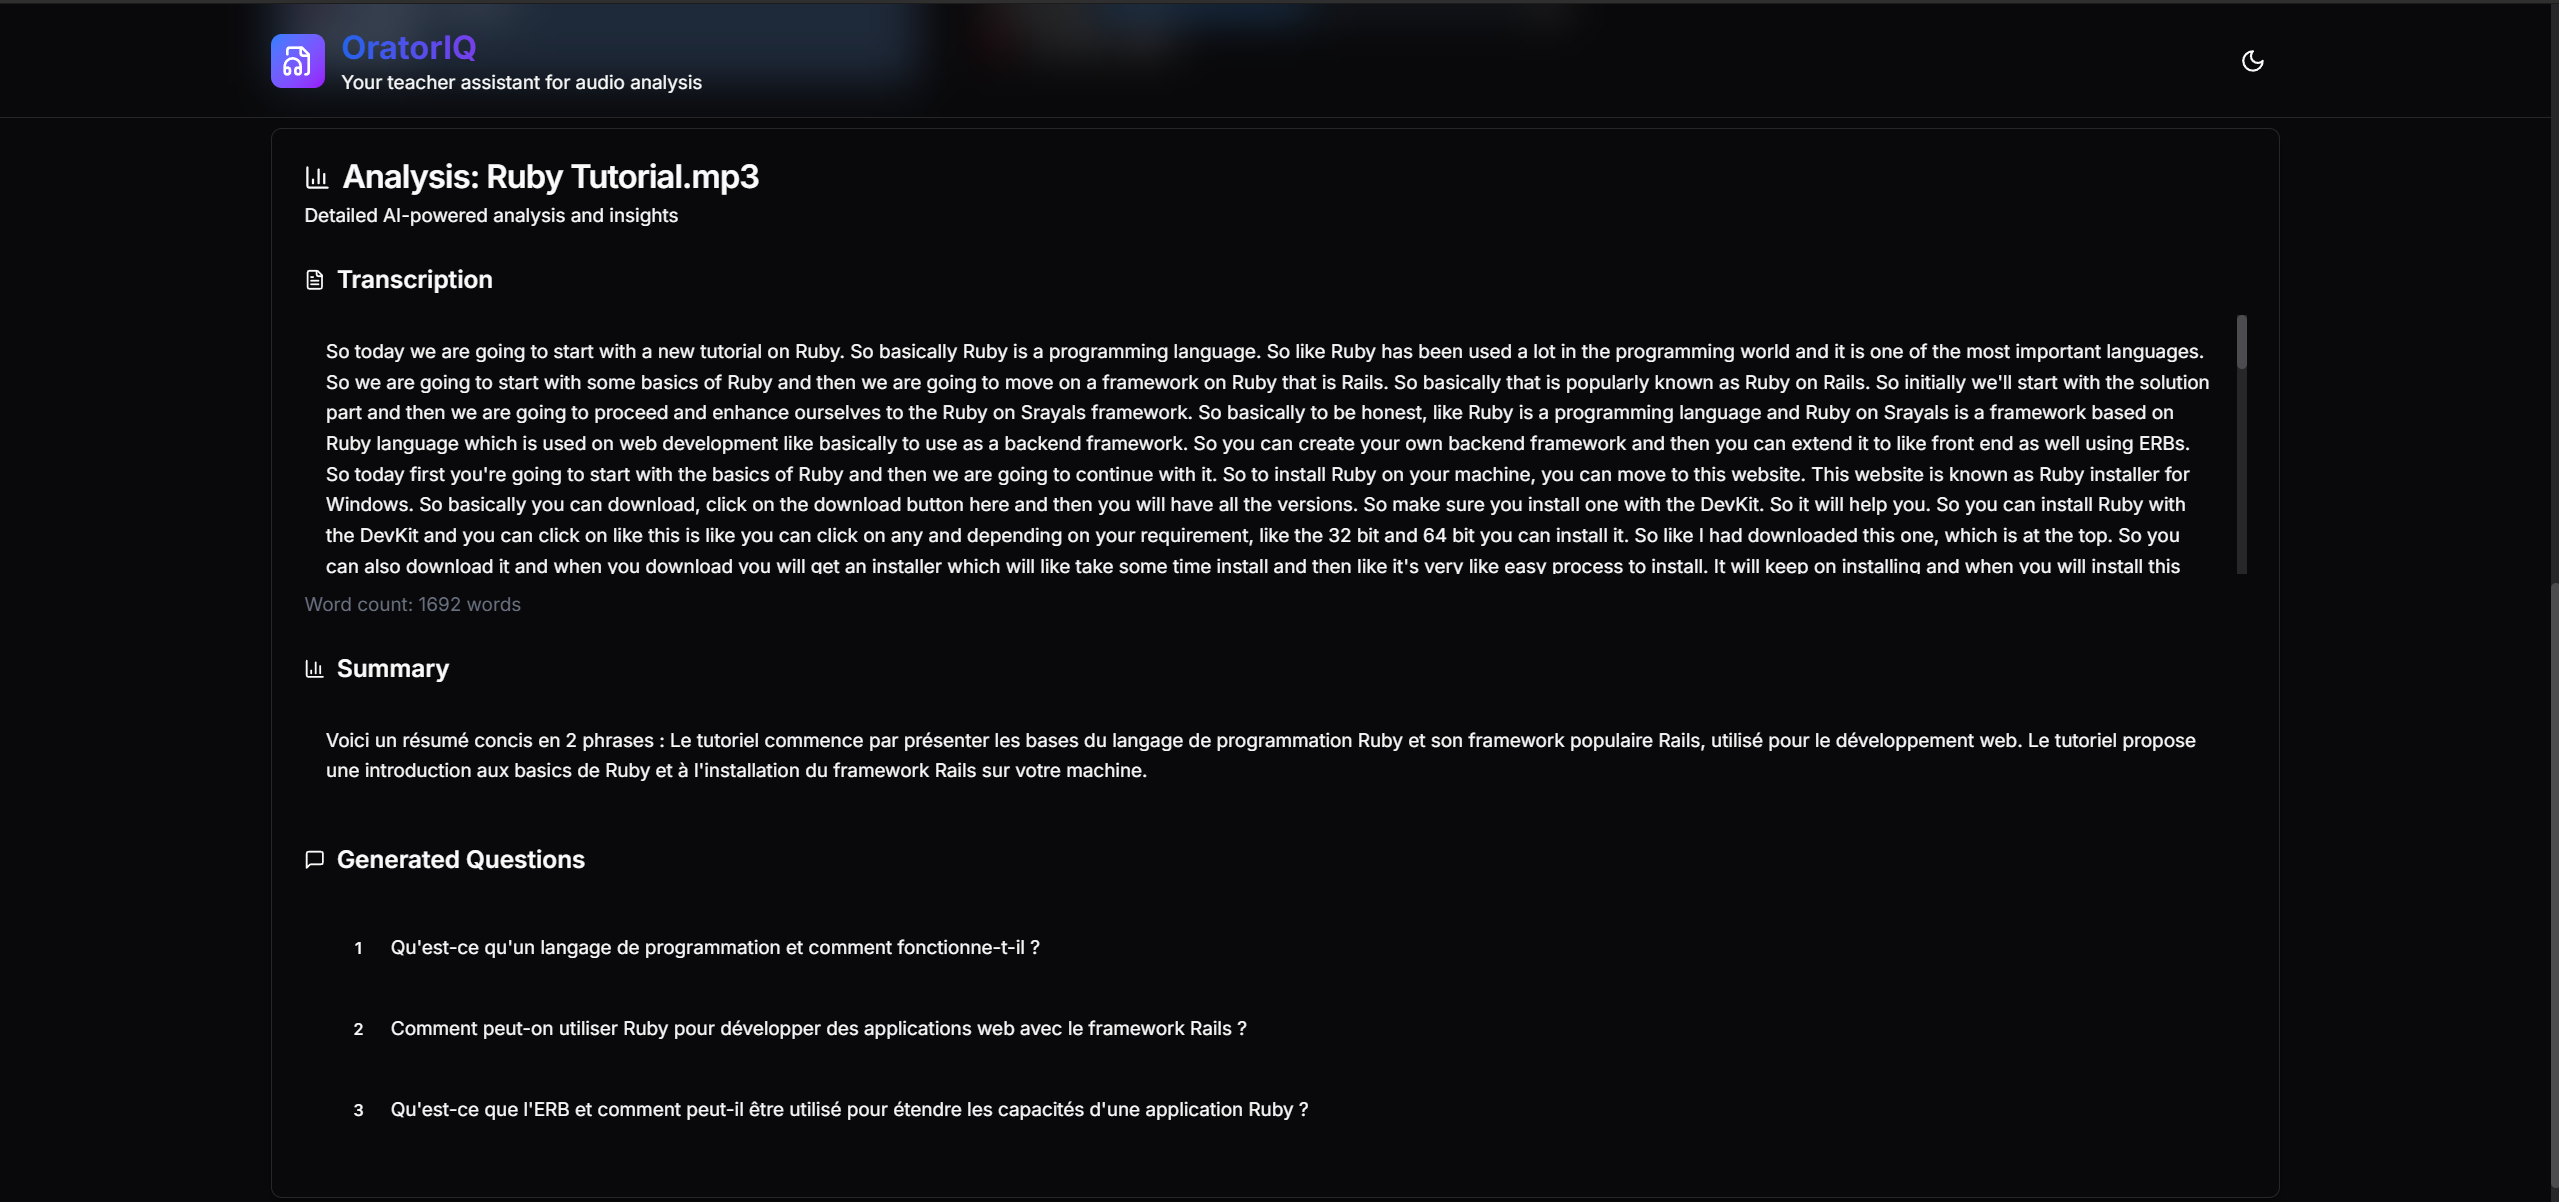
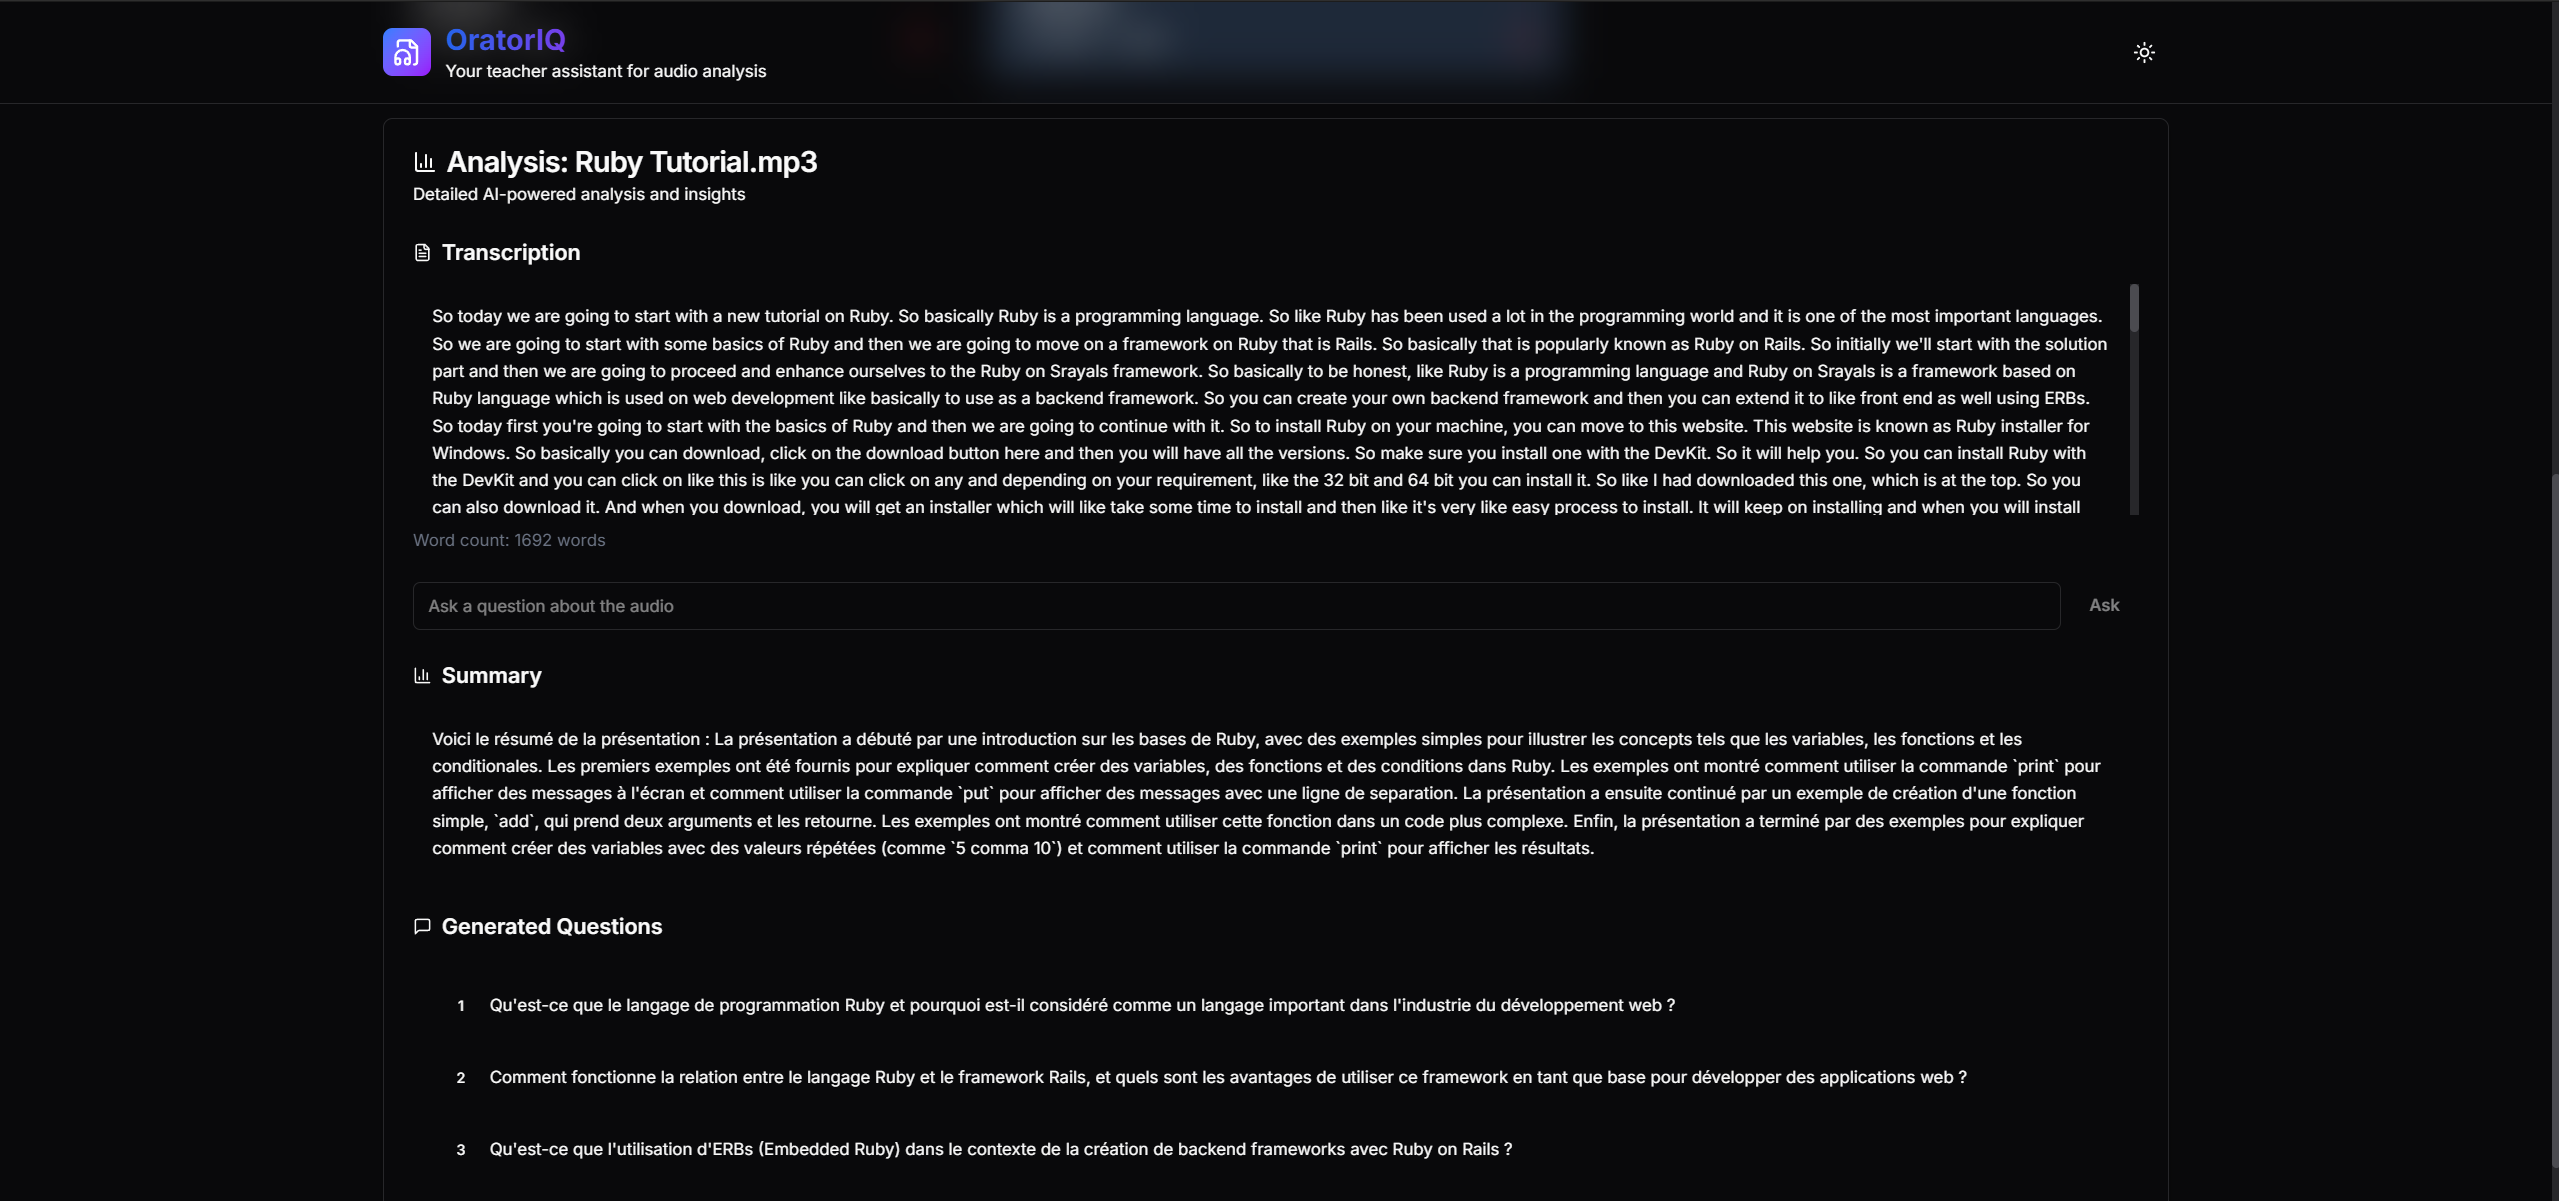
Added custom question on corpus + updated assets

diff --git a/frontend/src/App.jsx b/frontend/src/App.jsx
@@ -29,6 +29,65 @@ import {
 import { cn, truncateText } from "./lib/utils";
 import { Trash2 } from "lucide-react";
 
+function AskQuestionSection({ audioId }) {
+  const [question, setQuestion] = useState("");
+  const [answer, setAnswer] = useState("");
+  const [loading, setLoading] = useState(false);
+  const [error, setError] = useState("");
+
+  const handleAsk = async (e) => {
+    e.preventDefault();
+    setLoading(true);
+    setError("");
+    setAnswer("");
+    try {
+      const form = new FormData();
+      form.append("question", question);
+      const res = await fetch(`http://localhost:8000/files/${audioId}/ask`, {
+        method: "POST",
+        body: form,
+      });
+      if (!res.ok) {
+        throw new Error("Failed to get answer");
+      }
+      const data = await res.json();
+      setAnswer(data.answer);
+    } catch (err) {
+      setError("Could not get answer. Please try again.");
+    } finally {
+      setLoading(false);
+    }
+  };
+
+  return (
+    <div className="space-y-2 mt-6">
+      <form onSubmit={handleAsk} className="flex flex-col md:flex-row items-stretch gap-2">
+        <Input
+          type="text"
+          placeholder="Ask a question about the audio"
+          value={question}
+          onChange={(e) => setQuestion(e.target.value)}
+          disabled={loading}
+          required
+          className="flex-1"
+        />
+        <Button type="submit" disabled={loading || !question.trim()}>
+          {loading ? "Searching…" : "Ask"}
+        </Button>
+      </form>
+      {answer && (
+        <div className="bg-background/70 border border-border rounded-lg p-4 mt-2">
+          <span className="font-semibold text-primary">Answer : </span>
+          <span>{answer}</span>
+        </div>
+      )}
+      {error && (
+        <div className="text-red-500 text-sm mt-2">{error}</div>
+      )}
+    </div>
+  );
+}
+
 export default function App() {
   const [file, setFile] = useState(null);
   const [files, setFiles] = useState([]);
@@ -672,6 +731,9 @@ export default function App() {
                       <span>Word count: {selected.word_count || 0} words</span>
                     </div>
                   </div>
+
+                  {/* Ask a Question */}
+                  <AskQuestionSection audioId={selected.id} />
 
                   {/* Summary */}
                   <div className="space-y-3">

diff --git a/backend/app/analytics.py b/backend/app/analytics.py
@@ -163,6 +163,21 @@ def ensure_model_available(model: str = DEFAULT_MODEL) -> bool:
     logger.error(f"Model {model} is not available after {max_retries} attempts")
     return False
 
+def answer_question(text: str, question: str, model: str = DEFAULT_MODEL) -> str:
+    """Answer a question based on the provided text using the self-hosted LLM"""
+    if not text or text.startswith('[') or not question:
+        return "Aucune réponse disponible."
+    prompt = f"""Vous êtes un assistant IA. Utilisez le texte ci-dessous pour répondre à la question de l'utilisateur. Si la réponse n'est pas dans le texte, dites-le explicitement. Répondez en français.
+
+    Texte: {text}
+
+    Question: {question}
+
+    Réponse:"""
+    
+    answer = call_ollama(prompt, model)
+    return answer if answer else "Aucune réponse disponible."
+
 def wait_for_model_ready(model: str = DEFAULT_MODEL, max_wait_time: int = 60) -> bool:
     """Wait for model to be ready for inference"""
     logger.info(f"Waiting for model {model} to be ready for inference...")
@@ -192,7 +207,7 @@ def wait_for_model_ready(model: str = DEFAULT_MODEL, max_wait_time: int = 60) ->
                 logger.warning(f"Model test failed with status {test_response.status_code}")
                 
         except Exception as e:
-            logger.warning(f"Model readiness test failed: {e}. This is expected if the model is still loading.")
+            logger.warning(f"Model readiness test failed: {e}. This is expected if the model is still loading or downloading.")
         
         finally:
             # Wait before the next check

diff --git a/backend/app/main.py b/backend/app/main.py
@@ -3,6 +3,7 @@ from fastapi.middleware.cors import CORSMiddleware
 from sqlalchemy.orm import Session
 from . import models, schemas, crud
 from .transcription import process_audio
+from .analytics import answer_question
 from .database import engine, SessionLocal
 from .analytics import check_ollama_status
 import shutil
@@ -159,6 +160,17 @@ def get_status():
         "llm_available": check_ollama_status(),
         "ollama_url": os.getenv('OLLAMA_URL', 'http://localhost:11434')
     }
+
+@app.post("/files/{audio_id}/ask")
+def ask_question(audio_id: int, question: str = Form(...), db: Session = Depends(get_db)):
+    """
+    Answer a question about the transcribed text for a given audio file.
+    """
+    audio = crud.get_audio_file(db, audio_id)
+    if not audio or not audio.transcription:
+        raise HTTPException(status_code=404, detail="Transcription not found")
+    answer = answer_question(audio.transcription, question)
+    return {"answer": answer}
 
 @app.delete("/files/{audio_id}")
 def delete_file(audio_id: int, db: Session = Depends(get_db)):

diff --git a/README.md b/README.md
@@ -49,6 +49,11 @@ Accédez à votre transcription, résumé et questions générées dans un forma
 
 ![Tableau de bord des résultats](assets/result.png)
 
+### 5. Question personnalisée
+Posez des questions personnalisées sur le contenu traité pour obtenir des réponses précises.
+
+![Question personnalisée](assets/question.png)
+
 ## Démarrage rapide
 
 ### Prérequis
